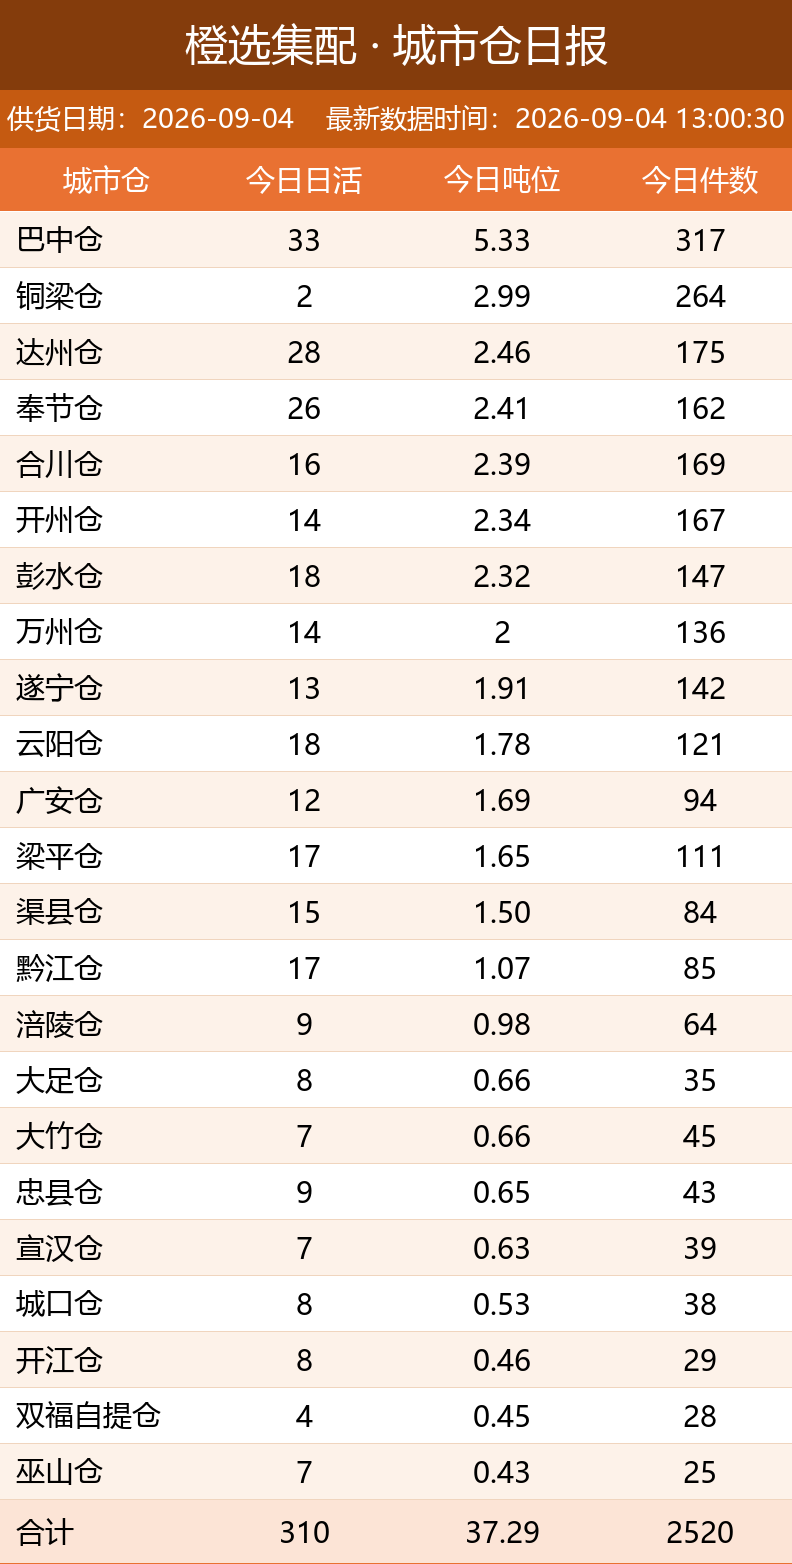
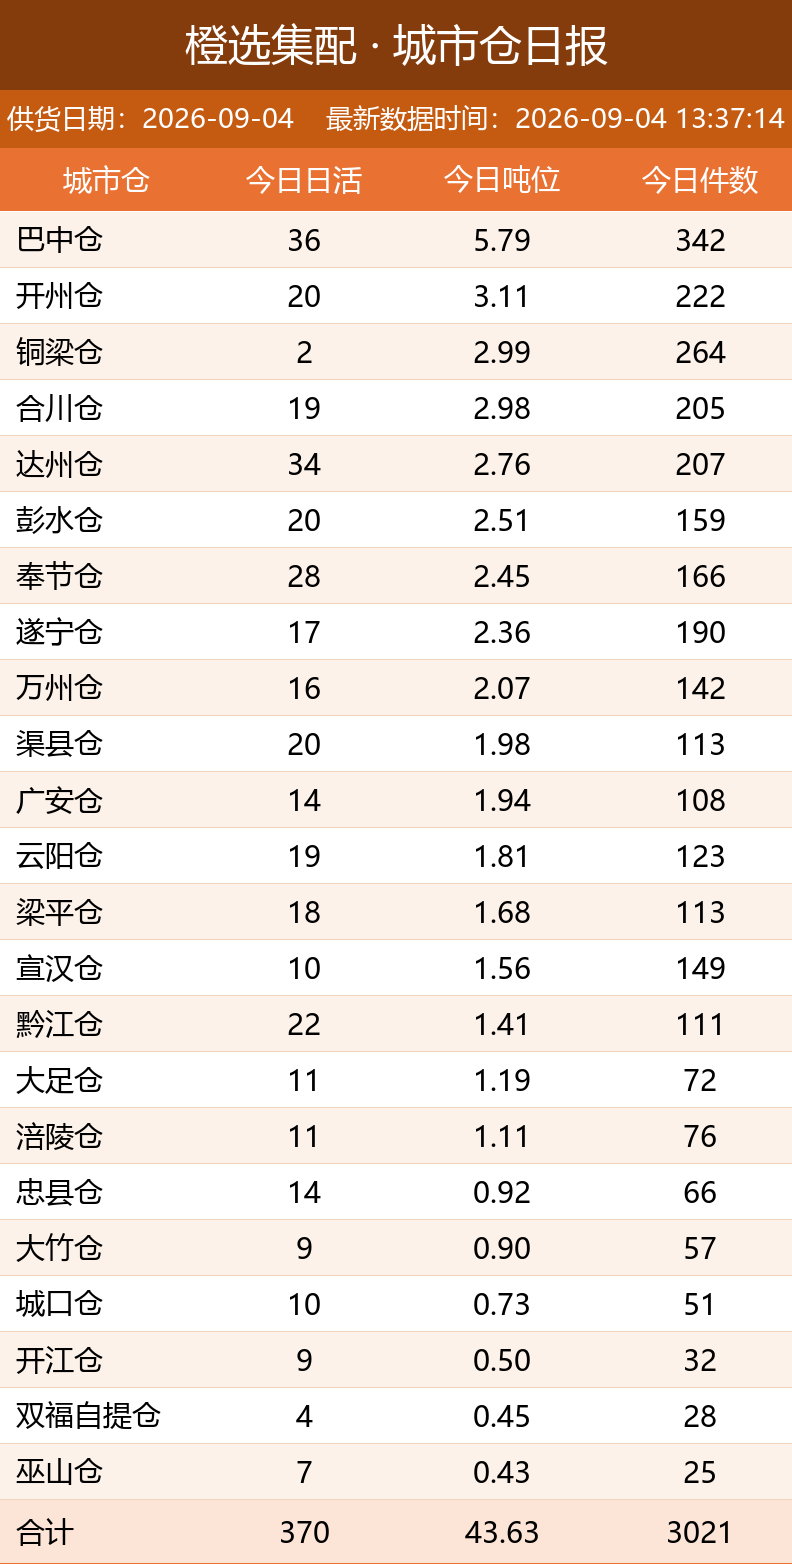
自动更新日报图片

diff --git a/index.html b/index.html
@@ -11,7 +11,7 @@ img { max-width: 100%; border: 1px solid #e5e5e5; margin-bottom: 24px; display: 
 </style>
 </head>
 <body>
-<h1>橙选集配日报图片（20260904_130035）</h1>
+<h1>橙选集配日报图片（20260904_133719）</h1>
 <img src="bd_latest.png" alt="BD 日报">
 <img src="wh_latest.png" alt="城市仓日报">
 <img src="zs_latest.png" alt="招商日报">
